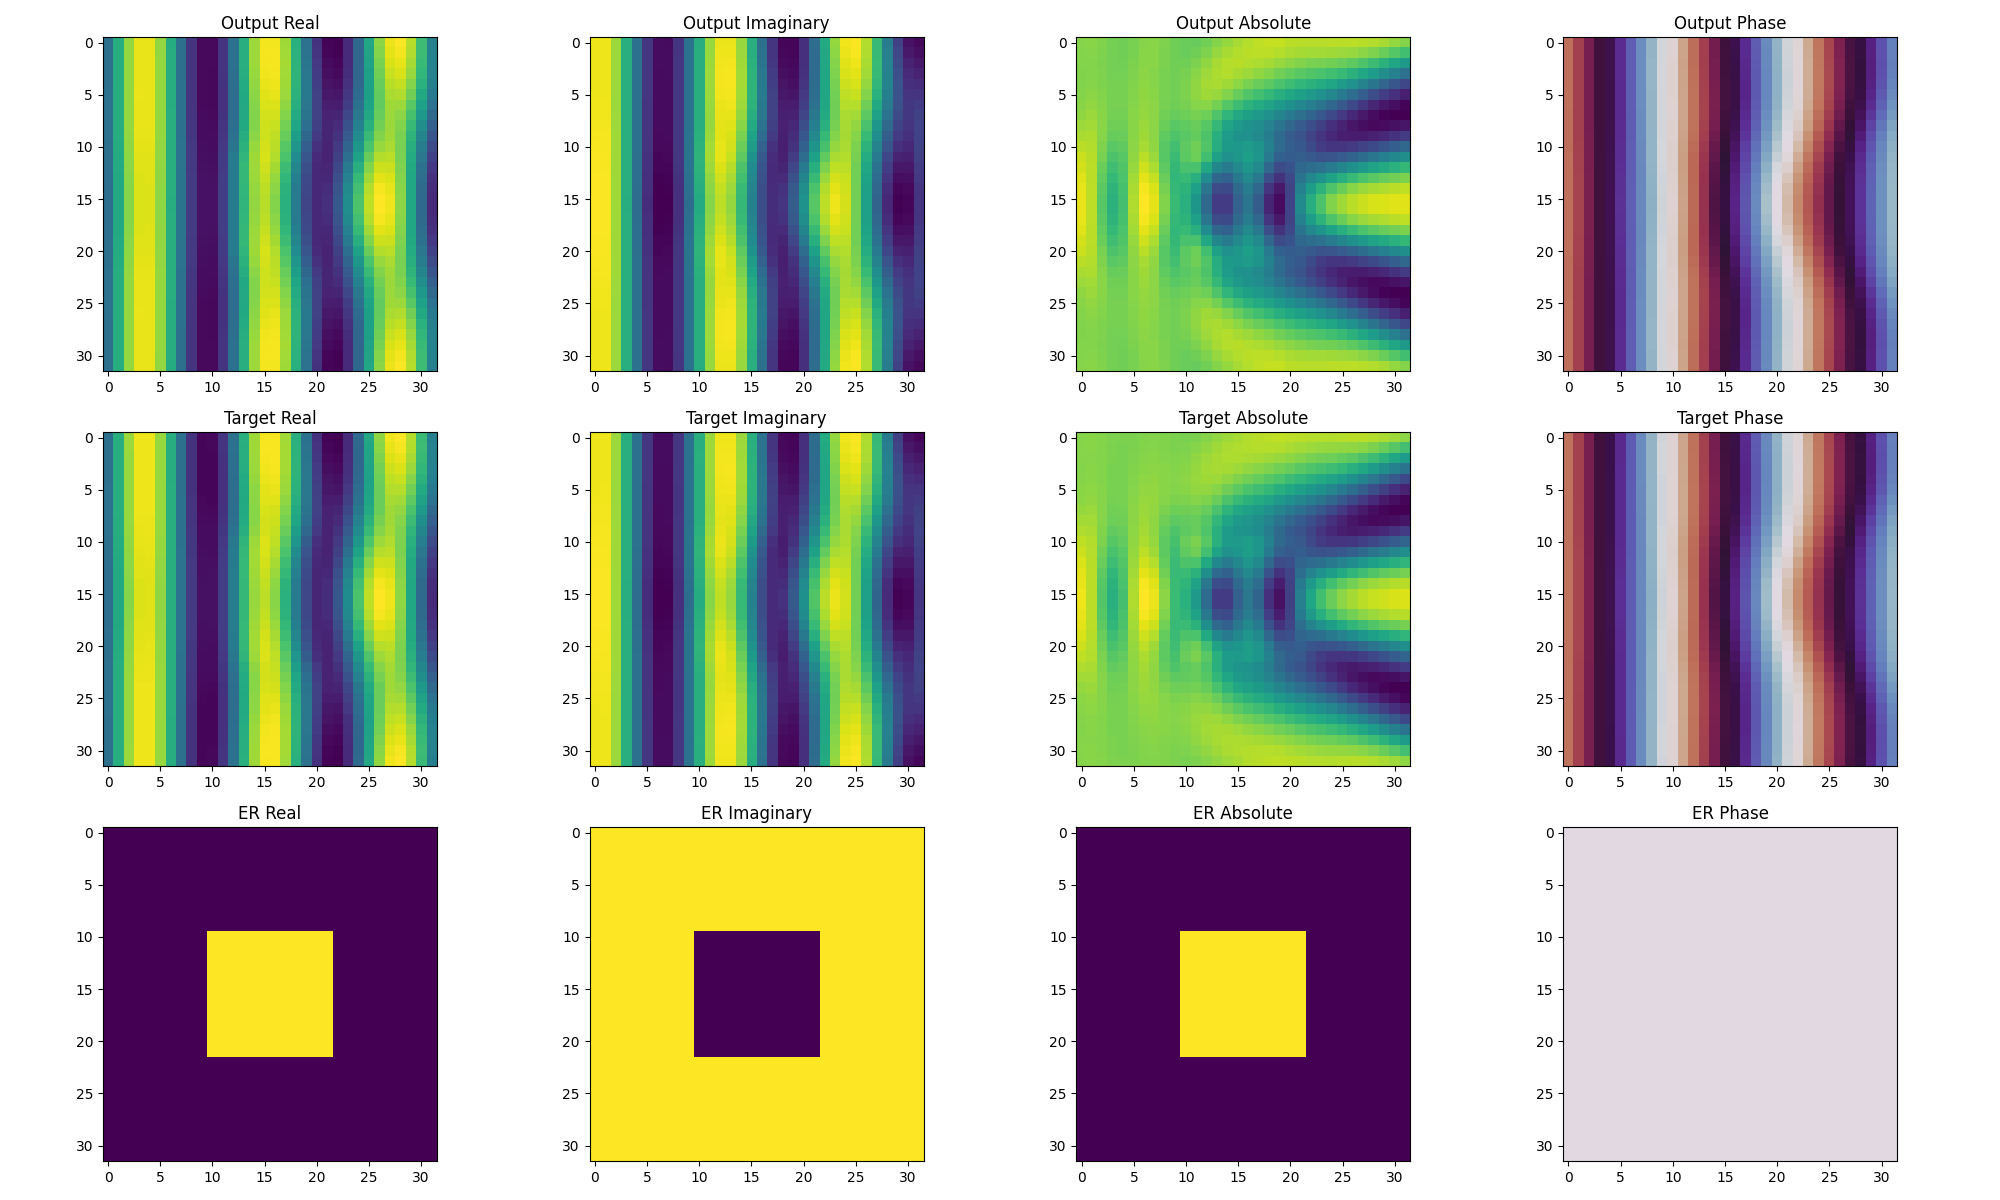
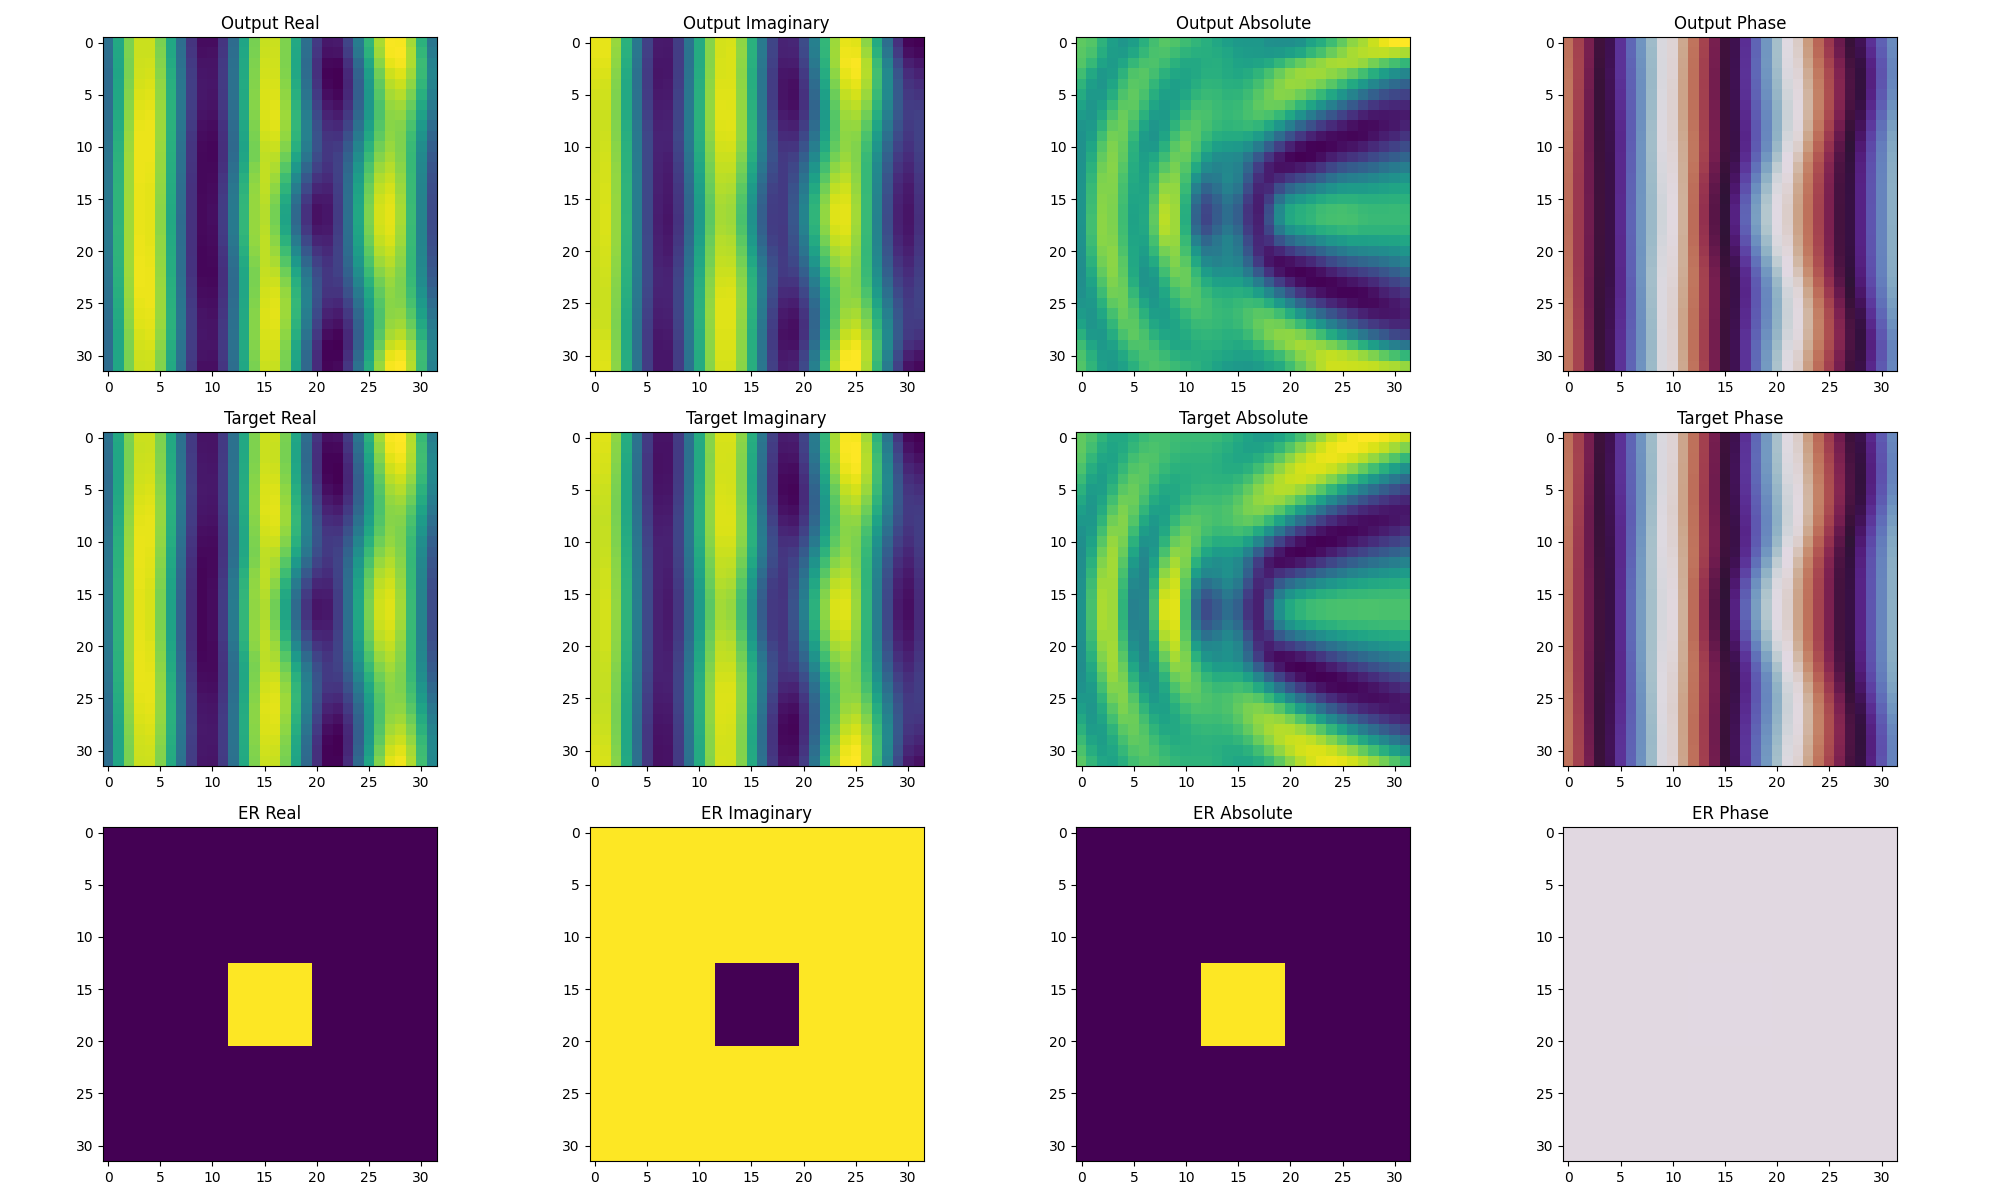
update

diff --git a/check_model.py b/check_model.py
@@ -70,12 +70,13 @@ if __name__ == "__main__":
     print("Model loaded successfully!")
     loaded_model.eval()  # Set to evaluation mode
 
-    data_loader = prepare_dataloader("dataset", batch_size=1)
+    # train_loader, val_loader, sizes = prepare_dataloader(
+    #     "dataset", batch_size=1
+    # )
     print("DataLoader prepared successfully")
-    ER, ET = next(iter(data_loader()))
-    ER, ET = next(iter(data_loader()))
-    # ET = jnp.load("triangle_ET.npy").reshape(1, 32, 32)
-    # ER = jnp.load("traiangle_image.npy").reshape(1, 32, 32)
+    # ER, ET = next(iter(train_loader()))
+    ET = jnp.load("triangle_ET.npy").reshape(1, 32, 32)
+    ER = jnp.load("traiangle_image.npy").reshape(1, 32, 32)
     print("shape of ER and ET:", ER.shape, ET.shape)
     EI = jnp.load("EI.npy").reshape(32, 32)
     print("Data batch and EI loaded successfully")
@@ -95,7 +96,7 @@ if __name__ == "__main__":
     eps_complex = jnp.stack([eps_real, eps_imag], axis=-1)
     print("stacked eps_complex shape:", eps_complex.shape)
 
-    plot_complex_fields(output[0], target[0], eps_complex[0], save_path="copa.png")
+    plot_complex_fields(output[0], target[0], eps_complex[0], save_path="test.png")
     ET_target = target[0, ..., 0] + 1j * target[0, ..., 1]
     ET_predicted = output[0, ..., 0] + 1j * output[0, ..., 1]
     relative_error = jnp.linalg.norm(ET_predicted - ET_target) / jnp.linalg.norm(
